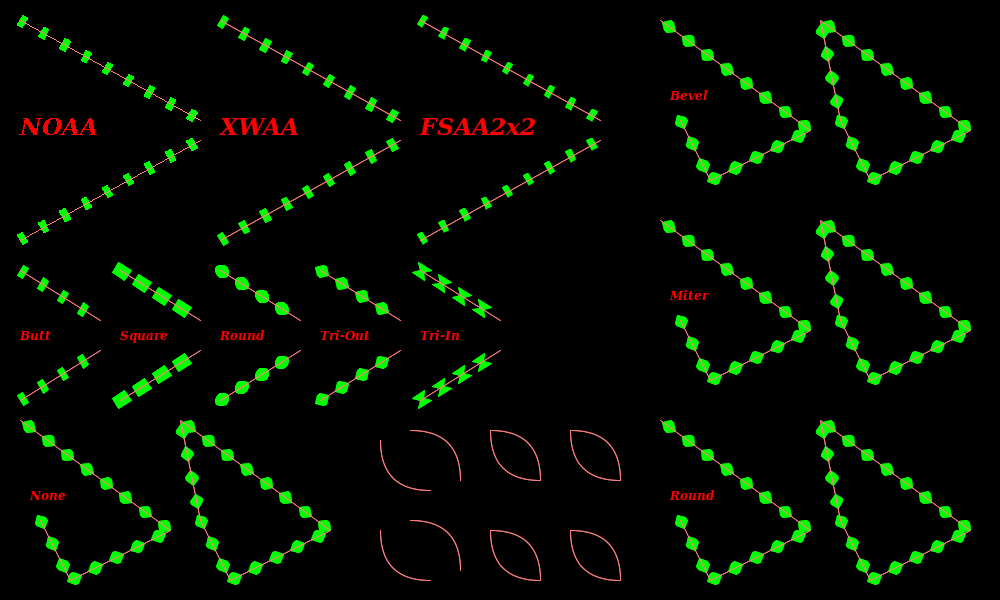
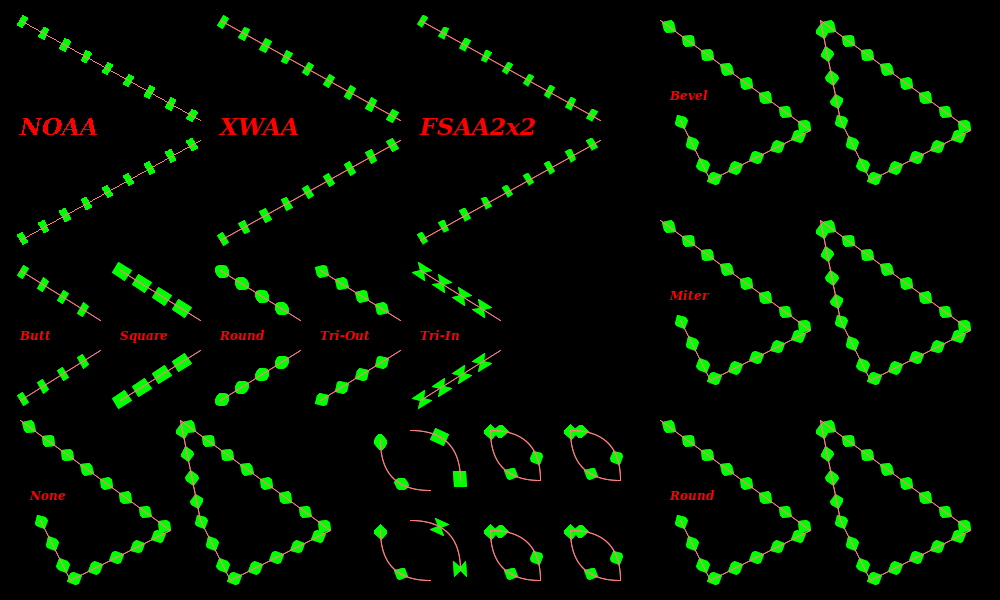
Working on thick polygon

diff --git a/src/Pt-Gfx/ImagePainter2.cpp b/src/Pt-Gfx/ImagePainter2.cpp
@@ -1447,8 +1447,9 @@ bool ImagePainter2::thickenPatternedPolygon(std::vector<PointF>& pointsF, const 
     // Calculate the cell size
     const float cellSize = _rasterizer->pen().size();
 
-    // The pattern indexing counter
-    Pt::int32_t piCtrInOut = 0;
+    // The pattern buffer and its indexing counter
+    const Pt::uint8_t* pBuff      = _rasterizer->patternBufferMP64();
+          Pt::int32_t  piCtrInOut = 0;
 
     // Gathered points
     std::vector<PointF> gatherP;
@@ -1456,30 +1457,53 @@ bool ImagePainter2::thickenPatternedPolygon(std::vector<PointF>& pointsF, const 
 
     // Walk thorough the points
     for(size_t i = 0; i < pointCount - 1; ++i) {
+        // Get the points
         const PointF& p1 = *(src + i + 0);
         const PointF& p2 = *(src + i + 1);
-
+        // Get the coordinates
         const float   x1 = p1.x();
         const float   y1 = p1.y();
         const float   x2 = p2.x();
         const float   y2 = p2.y();
-
+        // Calculate the current "polygon-edge" segment length
         const float   dx = x2 - x1;
         const float   dy = y2 - y1;
-
         const float   ln = Gfx::Math::fastSqrt(dx * dx + dy * dy);
+        // Calculate the "pattern" segment length
+              Pt::int32_t piCtrTest = piCtrInOut;
+        const Pt::uint8_t refPat    = pBuff[piCtrTest];
+              float       patSegLen = 0.0f;
+        for(;;) {
+            // Update the pattern indexing counter
+            ++piCtrTest;
+            if(piCtrTest >= PATTERN_BUFFER_COUNTER_MAXMP) piCtrTest -= PATTERN_BUFFER_COUNTER_MAXMP;
+            // Get and compare the pattern bit
+            const Pt::uint8_t curPat = pBuff[piCtrTest];
+            if(curPat == refPat) {
+                patSegLen += cellSize;
+                continue;
+            }
+            // We have got a different pattern bit, exit to process the "pattern" segment
+            break;
+        }
+        // If the length of the "gathered" segments has become enough, process it
+        if(gatherL >= patSegLen && gatherP.size() >= 2) {
+            lprintf("count = %zd ; gather = %5.1f ; pattern = %5.1f\n", gatherP.size(), gatherL, patSegLen);
 
-        if(ln < cellSize) {
+            if(refPat) thickenSolidOpenPolygon(pointsF, gatherP.data(), gatherP.size(), 0);
+            piCtrInOut = piCtrTest;
+
+            gatherP.clear();
+            gatherL = 0.0f;
+            continue;
+        }
+        // If the "polygon-edge" segment is shorther than "pattern" segment, gather the point
+        if(ln < patSegLen) {
             gatherP.push_back(p1);
             gatherL += ln;
             continue;
         }
-
-        if(!gatherP.empty() && gatherL > 0) {
-            lprintf("%zd\n", gatherP.size());
-            gatherP.clear();
-        }
-
+        // Generate a simple patterned line segment
         generatePatternedLineSegment(pointsF, x1, y1, x2, y2, piCtrInOut);
     }
 
